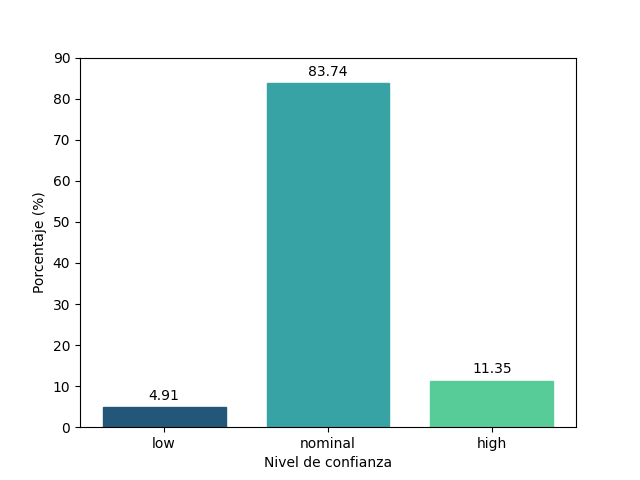
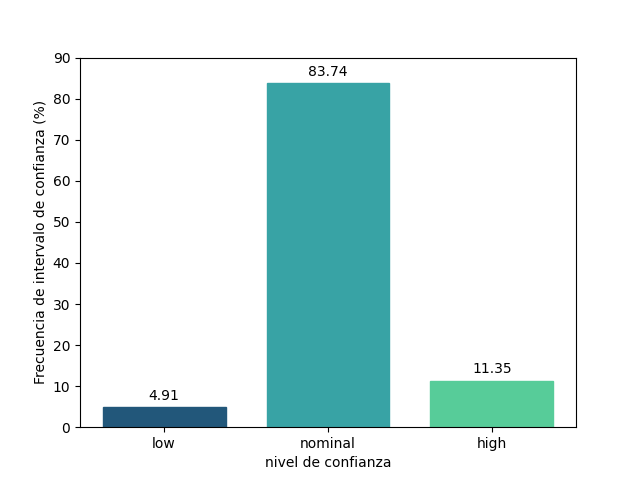
[ADD] change in graphics

diff --git a/Scripts/Fire_Graphics.py b/Scripts/Fire_Graphics.py
@@ -22,8 +22,8 @@ if days[div[-1]]!=days[-1]:
 for day in days:
     dates=np.append(dates,conse_date(month_names,day))
 plt.subplots_adjust(left=0.121,right=0.952,bottom=0.162,top=0.924)
-plt.scatter(days,n_day,marker=".",c="#3e978b",alpha=0.5)
-plt.plot(days,n_day,color="#3e978b")
+plt.scatter(days,n_day,marker=".",c="#9a031e",alpha=0.5)
+plt.plot(days,n_day,color="#9a031e")
 plt.ylim(0,550)
 plt.ylabel("Número de Incencios")
 plt.xlim(days[0],days[-1]+1)

diff --git a/Scripts/Bar_Graphics.py b/Scripts/Bar_Graphics.py
@@ -18,6 +18,6 @@ rect[0].set_color("#22577a")
 rect[1].set_color("#38a3a5")
 rect[2].set_color("#57cc99")
 ax.set_ylim(0,90)
-ax.set_ylabel("Porcentaje (%)")
-ax.set_xlabel("Nivel de confianza")
+ax.set_ylabel("Frecuencia de intervalo de confianza (%)")
+ax.set_xlabel("nivel de confianza")
 plt.savefig("../Graphics/Bar_Graphic.png")
